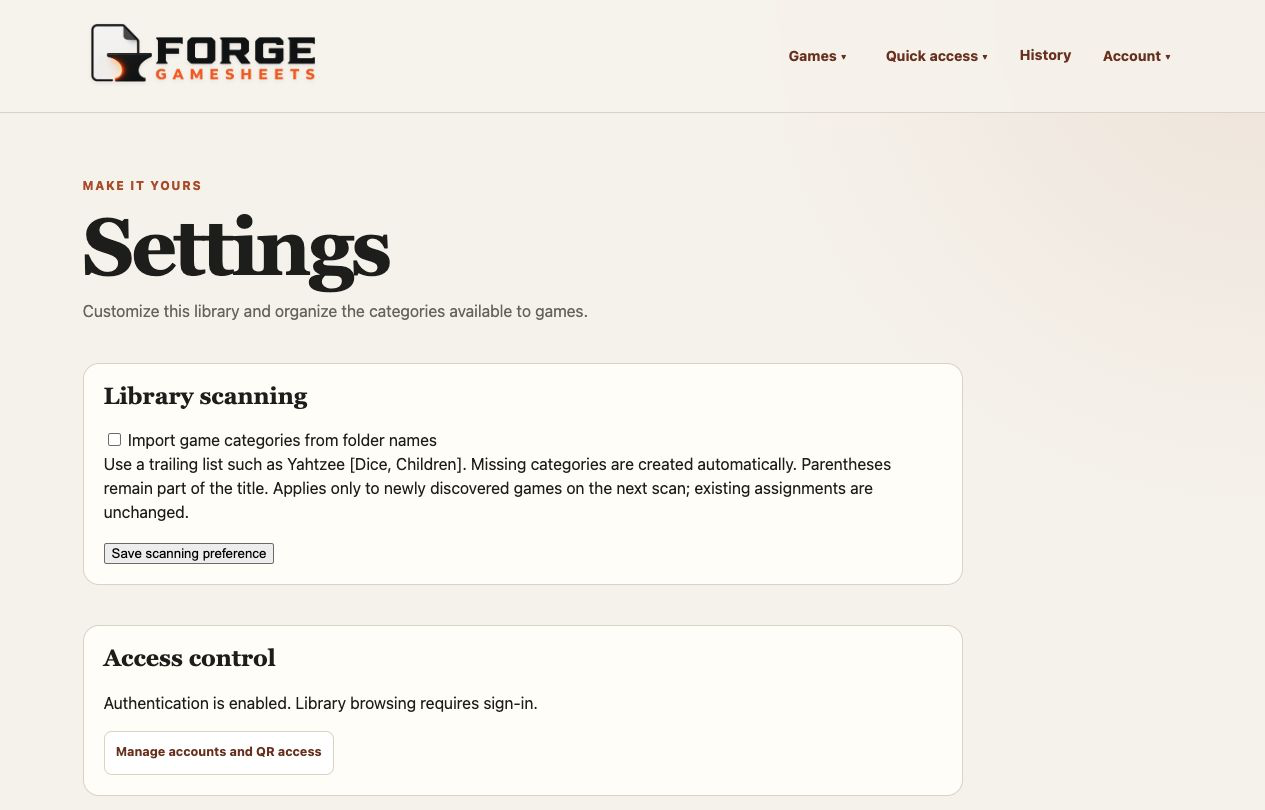
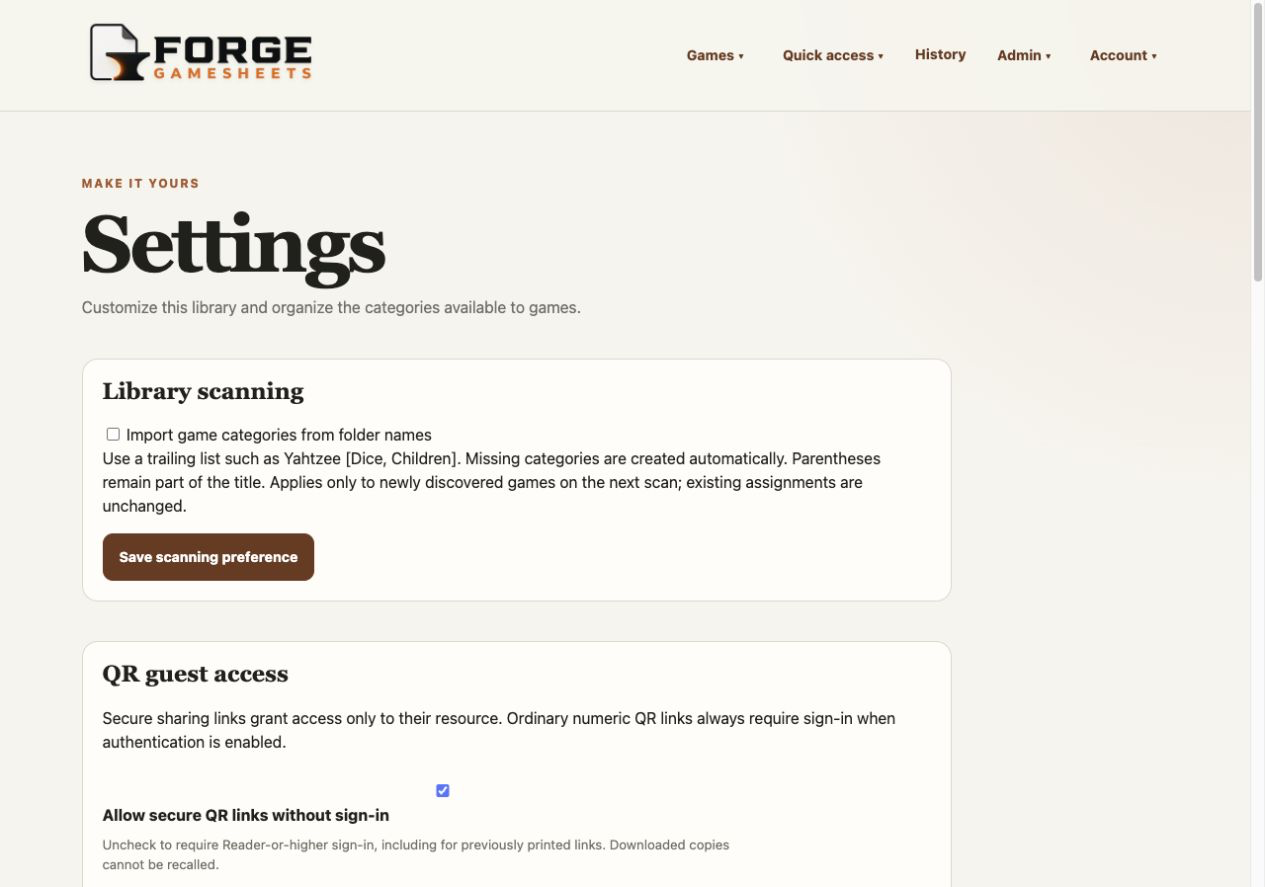
Refresh documentation for Admin utilities

diff --git a/tests/test_documentation.py b/tests/test_documentation.py
@@ -84,8 +84,14 @@ def test_readme_gallery_images_are_valid_and_cover_current_workflows():
     text = (ROOT / "README.md").read_text()
     gallery = text.split("## Screenshots", 1)[1].split("## Requirements", 1)[0]
     images = set(re.findall(r"docs/images/[\w-]+\.png", gallery))
-    assert len(images) == 10
-    for name in ("users", "assign-categories", "bgg-manual", "desktop-navigation"):
+    assert len(images) == 11
+    for name in (
+        "users",
+        "assign-categories",
+        "bgg-manual",
+        "desktop-navigation",
+        "reprint-maintenance",
+    ):
         assert f"docs/images/{name}.png" in images
     for path in images:
         with Image.open(ROOT / path) as image:

diff --git a/README.md b/README.md
@@ -46,7 +46,7 @@ The approved scope and roadmap are in [PROJECT_PLAN.md](PROJECT_PLAN.md).
 
 ## Screenshots
 
-Screenshots refreshed September 4, 2026, using an invented demonstration library
+Screenshots refreshed September 8, 2026, using an invented demonstration library
 and demo accounts. No private library content or third-party game files are
 included. These views show authentication enabled; available controls depend on
 the signed-in role. Click an image to inspect it at full size.
@@ -56,12 +56,14 @@ the signed-in role. Click an image to inspect it at full size.
 | ![Forge GameSheets library showing pinned resources and category cards](docs/images/library-overview.png) | ![An invented game's rules, score sheets, references, and resource actions](docs/images/game-resources.png) |
 | **Bulk game categories** | **FORGE Reprint** |
 | ![Selected demo games and categories with bulk operations and explanatory help](docs/images/assign-categories.png) | ![Generated demo reprint ready to view or download, with QR access guidance](docs/images/forge-reprint.png) |
-| **Settings and folder-category import** | **Accounts and QR access** |
-| ![Settings showing optional folder-category import and enabled authentication](docs/images/settings.png) | ![Admin access controls explaining roles and the QR guest policy](docs/images/users.png) |
-| **Manual BoardGameGeek linking** | **Integration and build details** |
-| ![Token-free BGG search button and empty full-game-URL field](docs/images/bgg-manual.png) | ![Settings showing the optional API disabled and a local development build](docs/images/settings-build.png) |
-| **Grouped desktop navigation** | **Mobile navigation** |
-| ![Games dropdown with All games, Categories, and Assign game categories](docs/images/desktop-navigation.png) | <img src="docs/images/mobile-navigation.png" alt="Phone menu with Games, Quick access, History, and Account groups including admin-only Users" width="200"> |
+| **Bulk FORGE Reprint maintenance** | **Settings and QR access** |
+| ![Admin utility showing current, missing, stale, and unavailable reprints with bulk operation choices](docs/images/reprint-maintenance.png) | ![Settings showing folder-category import and QR guest access](docs/images/settings.png) |
+| **User Accounts** | **Manual BoardGameGeek linking** |
+| ![Admin account controls explaining roles and account management](docs/images/users.png) | ![Token-free BGG search button and empty full-game-URL field](docs/images/bgg-manual.png) |
+| **Integration and build details** | **Grouped desktop navigation** |
+| ![Settings showing the optional API disabled and a local development build](docs/images/settings-build.png) | ![Admin dropdown with FORGE Reprints, Settings, and User Accounts](docs/images/desktop-navigation.png) |
+| **Mobile navigation** | |
+| <img src="docs/images/mobile-navigation.png" alt="Phone menu with Games, Quick access, History, Admin, and Account groups" width="200"> | |
 
 The [screenshot maintenance guide](docs/SCREENSHOTS.md) records the capture
 procedure and review requirements.
@@ -255,15 +257,15 @@ API enrichment remains a separate, optional feature requiring token configuratio
 ### Navigation
 
 Desktop navigation groups **Games** (All games, Categories, Assign game categories),
-**Quick access** (Pinned, Favorites, Recently used), and **Account** (permitted
-account/settings/user actions), with **History** separate. The logo opens Library
-home. Mobile Menu shows the same groups with visible links. Users is shown only
-to signed-in Admins; editing options follow role permissions. Recently used is
-hidden when its configured limit is zero.
+**Quick access** (Pinned, Favorites, Recently used), **Admin** (FORGE Reprints,
+Settings, User Accounts), and **Account** (My account and Sign out), with
+**History** separate. The logo opens Library home. Mobile Menu shows the same
+permitted groups with visible links. Admin is shown only to Admins; editing options
+follow role permissions. Recently used is hidden when its configured limit is zero.
 
 ### Bulk FORGE Reprint maintenance
 
-Admins can open **Settings → Manage FORGE Reprints** to review current, missing,
+Admins can open **Admin → FORGE Reprints** to review current, missing,
 stale, and unavailable reprints. Three deliberate operations create only missing
 copies, refresh only existing copies, or create/refresh all eligible indexed PDFs.
 Forge confirms the number of new and replaced files before starting. Work runs
@@ -310,8 +312,9 @@ docker compose exec app python -m app.accounts create-admin
 Enter the first Admin username and a new 15–128-character passphrase at the
 private prompts. Do not put the passphrase in the command. Successful setup
 immediately requires sign-in for the existing library; it does not change PDFs,
-categories, or other content. Sign in with that Admin, then open **Account →
-Users** to create Contributor or Reader accounts and configure QR guest access.
+categories, or other content. Sign in with that Admin, then open **Admin → User
+Accounts** to create Contributor or Reader accounts. Configure QR guest access in
+**Admin → Settings**.
 There is no default password or web-based initial setup.
 
 Read [Accounts and QR sharing](docs/ACCOUNTS.md) before activation for HTTPS

diff --git a/docs/SCREENSHOTS.md b/docs/SCREENSHOTS.md
@@ -2,7 +2,7 @@
 
 ## Current set
 
-Captured September 4, 2026 from application revision `14f76af`, with only pending
+Captured September 8, 2026 from application revision `00381e8`, with only pending
 documentation edits. The demo uses invented games (Lantern Vale, Pebble Parade,
 Pocket Orchard, Starship Signals), original sample PDFs and simple cover art,
 and disposable demo accounts. It has no BGG token or real game association.
@@ -10,9 +10,9 @@ The build panel correctly says Development build: this was a local source run,
 not a published-container verification.
 
 The gallery contains library-overview, game-resources, assign-categories,
-forge-reprint, settings, users, bgg-manual, settings-build, desktop-navigation,
-and mobile-navigation PNGs in `docs/images/`. The account image focuses on roles
-and QR policy; it is not a screenshot of the entire long Users page.
+forge-reprint, reprint-maintenance, settings, users, bgg-manual, settings-build,
+desktop-navigation, and mobile-navigation PNGs in `docs/images/`. The account
+image focuses on roles and account management; QR policy appears in Settings.
 
 ## Repeatable capture checklist
 
@@ -23,13 +23,13 @@ and QR policy; it is not a screenshot of the entire long Users page.
 2. Bootstrap a disposable Admin and Reader in that demo only. Add a few category
    assignments and pinned resources. Leave all passphrase fields empty in captures.
 3. Capture the gallery routes: `/`, `/games/{demo-id}`, `/assign-categories`,
-   `/r/{demo-resource-id}`, `/settings`, `/settings/users`, and
+   `/r/{demo-resource-id}`, `/settings/reprints`, `/settings`, `/settings/users`, and
    `/games/{demo-id}/edit`. Discover IDs from the demo; do not assume production IDs.
 4. On bulk categories, select games and a category to illustrate the controls;
    no change need be applied. Generate an ordinary demo reprint to show its ready
    state. Do not create or expose live guest-sharing links. Leave the BGG input
    empty rather than pretending an invented game has a real BGG listing.
-5. Capture the Games dropdown at desktop width and the open hamburger menu at
+5. Capture the Admin dropdown at desktop width and the open hamburger menu at
    390 × 844 for the phone view. Restore any temporary viewport override afterward.
 6. Inspect every saved PNG, not just the live browser. Check text, cropping,
    responsive wrapping, loaded fonts/previews, empty password fields, and absence
@@ -65,12 +65,12 @@ or GitHub Actions would reduce dependency on interactive tooling. That job is
 **not implemented** by this documentation refresh. Pin the browser/environment
 and use the same synthetic fixture if it is added; images still need human review.
 
-## Refresh verification — September 4, 2026
+## Refresh verification — September 8, 2026
 
-- All ten saved gallery images inspected; desktop and phone navigation captured.
-- Local rendered README gallery reviewed with all ten images loading.
-- Documentation tests: 5 passed. Ruff and `git diff --check`: passed.
-- Full Mac suite: 586 passed, 1 failed. The existing scanner case-sensitivity
+- All eleven saved gallery images inspected; desktop and phone navigation captured.
+- Local rendered README gallery reviewed with all eleven images loading.
+- Documentation tests: 9 passed. Ruff and `git diff --check`: passed.
+- Full Mac suite: 598 passed, 1 failed. The existing scanner case-sensitivity
   fixture cannot create distinct `Alpha` and `alpha` directories on this host.
   No scanner code or test was changed as part of this refresh.
-- No live library used, no guest token exposed, and no commit or publication made.
+- No live library used and no guest token exposed.

diff --git a/docs/ACCOUNTS.md b/docs/ACCOUNTS.md
@@ -36,7 +36,8 @@ Enter a username and a new 15–128-character passphrase at the prompts. No defa
 password or public setup URL exists. Passwords are not command-line arguments.
 Successful setup immediately protects the existing shared library; it does not
 move PDFs, change library permissions, or assign existing content to one owner.
-Sign in, then use **Settings → Accounts and QR access** to add accounts.
+Sign in, then use **Admin → User Accounts** to add accounts. Configure whether
+secure QR links allow guest access under **Admin → Settings → QR guest access**.
 
 Non-local sign-in requires HTTPS through a correctly configured trusted proxy.
 Localhost HTTP is supported for development. Establish HTTPS before activating
@@ -108,10 +109,11 @@ to solve login problems.
 
 ## Security limits and review
 
-Navigation groups Games, Quick access, and Account into desktop dropdowns, with
-History separate. The mobile Menu shows the same groups with directly visible
-links. Admins with accounts enabled can open Users from Account; the Settings
-shortcut remains available. Readers and Contributors do not see Users or Settings.
+Navigation groups Games, Quick access, Admin, and Account into desktop dropdowns,
+with History separate. The mobile Menu shows the same permitted groups with
+directly visible links. Admins can open FORGE Reprints, Settings, and User Accounts
+from Admin. Account contains personal account actions. Readers and Contributors
+do not see the Admin menu.
 
 Passphrases use Argon2id; sessions are random opaque cookies with server-side
 digests, a 30-minute idle timeout and 12-hour absolute lifetime. HTTPS cookies

diff --git a/docs/BETA_TESTING.md b/docs/BETA_TESTING.md
@@ -110,6 +110,18 @@ scanned PDF, and an unusually narrow page when available.
 Report the general page size and PDF characteristics when a layout fails, but
 do not submit copyrighted source files without permission.
 
+## Test 7a — bulk FORGE Reprint maintenance
+
+1. As an Admin, open **Admin → FORGE Reprints** and compare the inventory counts
+   with the test library.
+2. Review each operation before starting it: create missing, refresh existing,
+   and create or refresh all eligible reprints.
+3. Run an operation and confirm progress updates, completion totals, and any
+   per-resource skip or failure details are understandable.
+4. Confirm cancellation stops after the current resource and an interrupted job
+   can resume its remaining resources.
+5. Confirm source PDFs remain unchanged and active shared QR targets are preserved.
+
 ## Test 8 — responsive and keyboard use
 
 1. Resize the browser to phone, tablet, and desktop widths.

diff --git a/docs/deployment.md b/docs/deployment.md
@@ -184,7 +184,7 @@ address makes existing generated copies stale; generate them again so their QR
 codes use the new destination.
 
 After changing the public address or installing a release with a new reprint
-generator, open **Settings → Manage FORGE Reprints**. Use **Refresh existing
+generator, open **Admin → FORGE Reprints**. Use **Refresh existing
 reprints** to update only stored copies or **Create or refresh all reprints** to
 cover every eligible PDF. The operation continues independently of the browser
 request and reports skipped or failed resources individually. Only one bulk job
